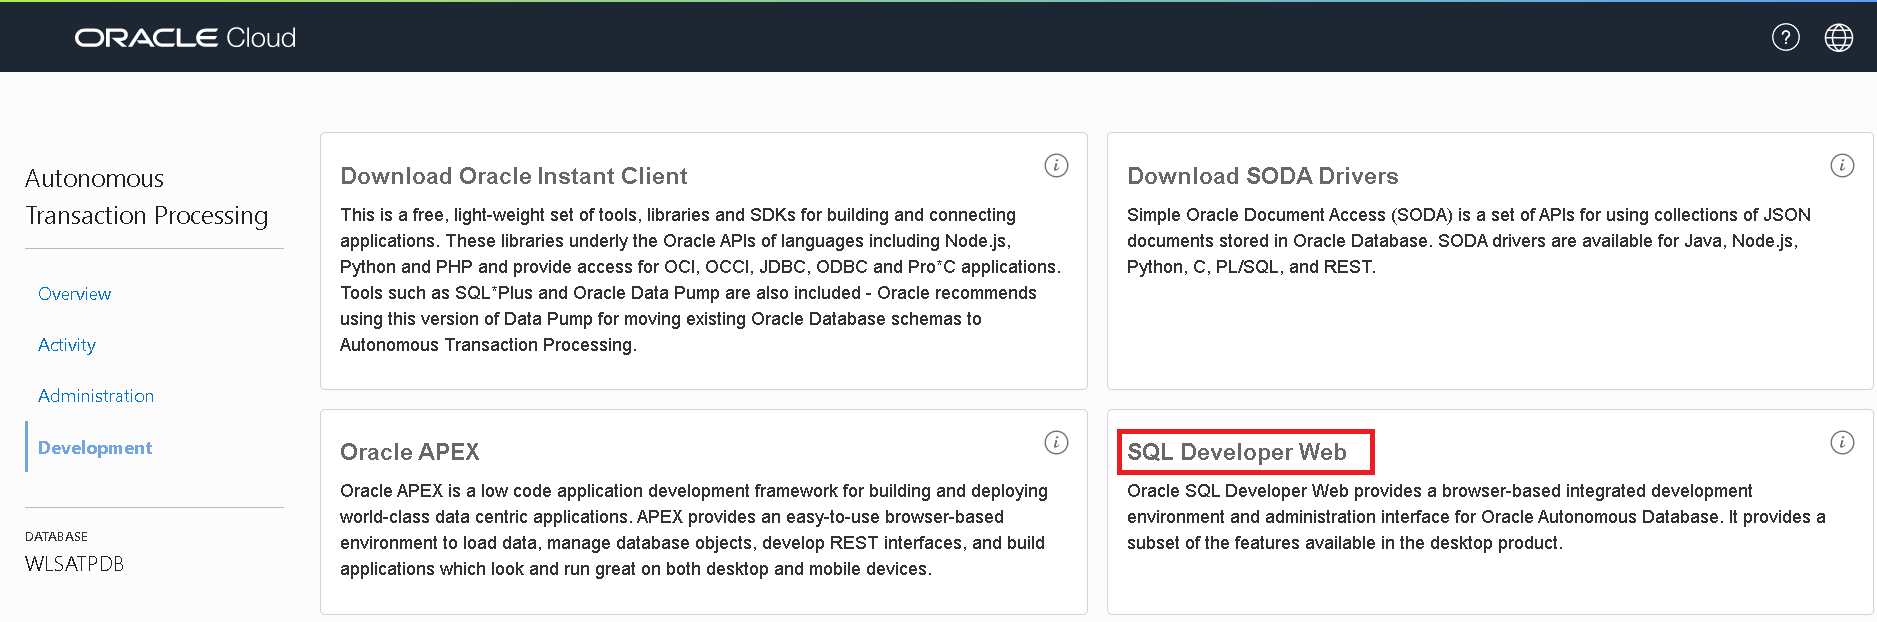
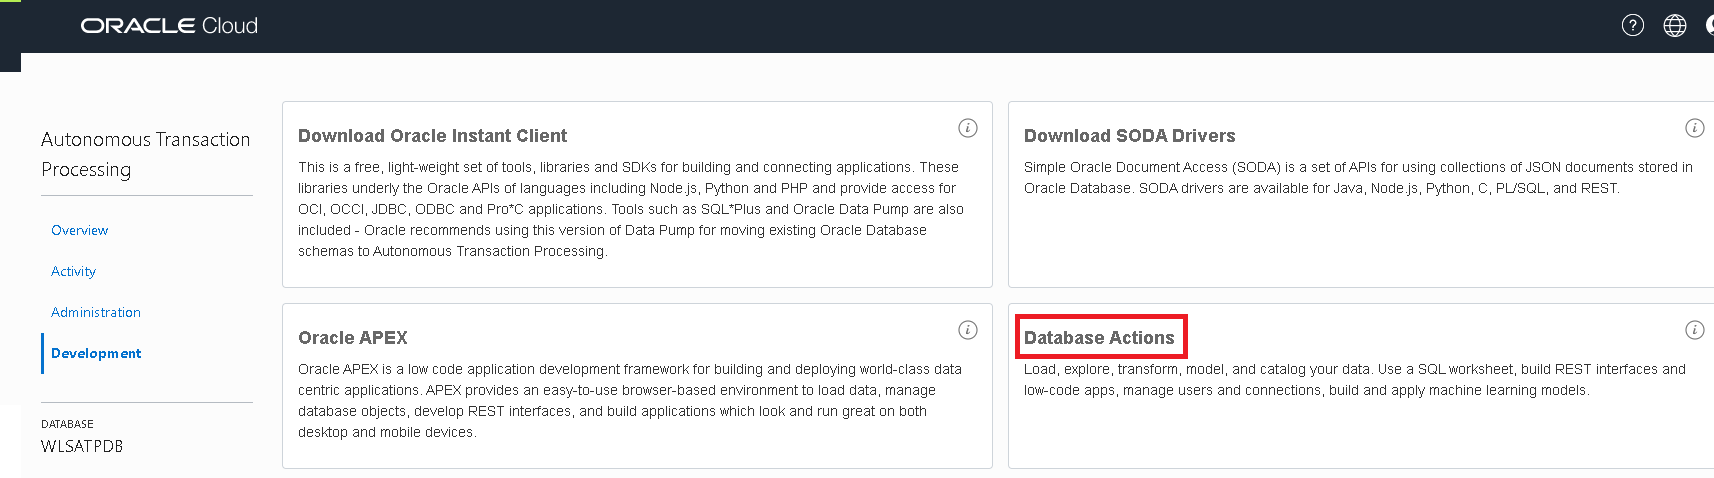
Update with Database Actions screens

diff --git a/AppDev/wls/ll-jrf/wlsforocijrf_prereq.md b/AppDev/wls/ll-jrf/wlsforocijrf_prereq.md
@@ -105,19 +105,31 @@ Go to *Service Console*:
 
 
 
-From *Development* submenu open **SQL Developer Web**:
+From *Development* submenu open **Database Actions**:
 
 ![](images/wlscnonjrfwithenvprereq/image910.png)
 
 
 
-This will open in a new tab the SQL Developer Web Login screen. Use **ADMIN** and the password setup when provisioning the ATP Database:
+This will open in a new tab the Database Actions Login screen. Use **ADMIN** and click on *Next*:
+
+![](images/wlscnonjrfwithenvprereq/image915.png)
+
+
+
+Now type in the password setup during provisioning of the ATP Database:
 
 ![](images/wlscnonjrfwithenvprereq/image920.png)
 
 
 
-Once logged in, you can follow a waking tour to discover the main user interface feature: 
+Once logged in, go to **SQL** tool:
+
+![](images/wlscnonjrfwithenvprereq/image925.png)
+
+
+
+You can follow a waking tour to discover the main user interface features: 
 
 ![](images/wlscnonjrfwithenvprereq/image930.png)
 
